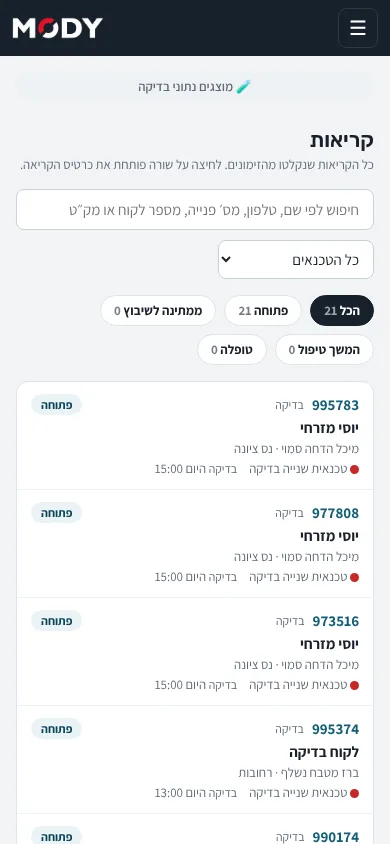
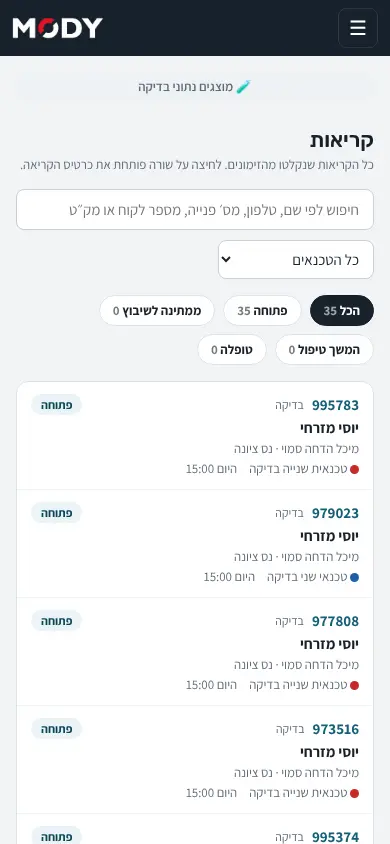
fix(office-calls-list): one quiet test marker per row (D74, owner fix 19.11)
Claude-Session: https://claude.ai/code/session_011xmGFSYArFUjcD6VdGUhh6

diff --git a/components/office/CallsTable.tsx b/components/office/CallsTable.tsx
@@ -57,12 +57,13 @@ export type CallsTableRow = {
 const SHORT = "col-center col-fit";
 
 /**
- * The shown visit's source (SIM-14). Owner feedback (2026-11-17, QA T-06): the 🧪 icon alone read as
- * a pencil, so a simulated visit's source is the shared "🧪 בדיקה" pill (TestPill); an Outlook visit
- * keeps the 📅 icon.
+ * The shown visit's source (SIM-14). An Outlook visit keeps the 📅 icon. A simulated visit shows the
+ * quiet "בדיקה" marker (TestPill) only when the row itself is not marked: a test row carries exactly
+ * one marker (D74, owner fix 19.11).
  */
-function SourceMark({ source }: { source: VisitSource }) {
-  return source === "simulator" ? <TestPill /> : <VisitSourceIcon source={source} />;
+function SourceMark({ source, rowIsTest }: { source: VisitSource; rowIsTest: boolean }) {
+  if (source !== "simulator") return <VisitSourceIcon source={source} />;
+  return rowIsTest ? null : <TestPill />;
 }
 
 export function CallsTable({
@@ -167,7 +168,7 @@ export function CallsTable({
                 </td>
                 <td className={`${SHORT} num`}>{r.visits}</td>
                 <td className={`${SHORT} num`}>
-                  {r.source && <SourceMark source={r.source} />} {r.when || "—"}
+                  {r.source && <SourceMark source={r.source} rowIsTest={r.isTest} />} {r.when || "—"}
                   {r.whenCancelled && (
                     <span className="oc-when-cancel" style={{ color: "var(--s-cancel-fg)", fontWeight: 700 }}>
                       <span className="oc-sep"> · </span>בוטל
@@ -212,7 +213,7 @@ export function CallsTable({
                 ) : null}
                 {r.when ? (
                   <span className="num">
-                    {r.source && <SourceMark source={r.source} />} {r.when}
+                    {r.source && <SourceMark source={r.source} rowIsTest={r.isTest} />} {r.when}
                     {r.whenCancelled && <span style={{ color: "var(--s-cancel-fg)", fontWeight: 700 }}> · בוטל</span>}
                   </span>
                 ) : null}

diff --git a/tests/auth/office-calls-list.spec.ts b/tests/auth/office-calls-list.spec.ts
@@ -91,10 +91,11 @@ test.describe.serial("קריאות on real data (local stack)", () => {
     await expect(rowA.getByRole("link", { name: `מס׳ פנייה ${a} · ${customerA}` })).toBeVisible();
     // Two visits of one call; the source and the test marker (SIM-14, SIM-15, D47).
     await expect(rowA.locator("td").nth(7)).toHaveText("2");
-    // The test marker reads "בדיקה" (D74), on the call and on its visit's source.
+    // The test marker reads "בדיקה" (D74): exactly one per row, on the call (not repeated on its visit's source).
     await expect(rowA.locator("td").first()).toContainText("בדיקה");
-    await expect(rowA.locator("td").nth(8)).toContainText("בדיקה");
-    await expect(rowA.getByText("נתוני בדיקה")).toHaveCount(2);
+    await expect(rowA.locator("td").nth(8)).not.toContainText("בדיקה");
+    await expect(rowA.getByText("נתוני בדיקה")).toHaveCount(1);
+    await expect(rowA.locator(".test-mark")).toHaveCount(1);
     await expect(rowA).toContainText("פתוחה");
     await expect(rowA).toContainText("טכנאי בדיקה");
   });
@@ -105,7 +106,7 @@ test.describe.serial("קריאות on real data (local stack)", () => {
     await expect(page).toHaveURL(new RegExp(`[?&]q=${b}(&|$)`));
     await expect(rows(page)).toHaveCount(1);
     await expect(rows(page).first()).toContainText(customerB);
-    await expect(rows(page).first()).toContainText("טכנאית שנייה בדיקה");
+    await expect(rows(page).first()).toContainText("טכנאי שני בדיקה");
     // A search that matches nothing.
     await page.getByRole("searchbox", { name: "חיפוש קריאות" }).fill(`nothing-${run}`);
     await expect(page.getByText("לא נמצאו קריאות")).toBeVisible();
